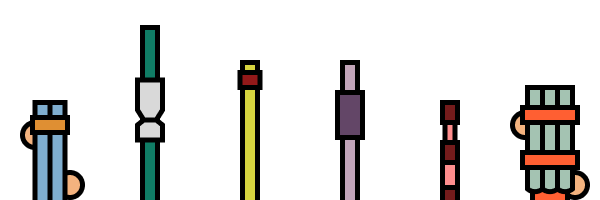
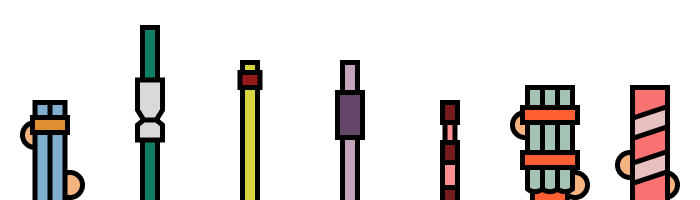
added a barrel and made menu decent for now...

diff --git a/src/gunparts.js b/src/gunparts.js
@@ -1,22 +1,23 @@
 import { RubberBullet, ShotgunShell, Bullet, SmallBullet } from "./bullet";
+import { Gun } from "./gun";
 
 class Barrel {
-  constructor(MOBILITY, BULLETS_AT_ONCE, MULTIPLE_BULLET_SPREAD, imgCellX, SHOW_MAG = true) {
+  constructor(MOBILITY, BULLETS_AT_ONCE, MULTIPLE_BULLET_SPREAD, imgCellX, showMag = true) {
     this.MOBILITY = MOBILITY;
     this.BULLETS_AT_ONCE = BULLETS_AT_ONCE; // Int
     this.MULTIPLE_BULLET_SPREAD = MULTIPLE_BULLET_SPREAD; // Radians
 
     this.imgCellX = imgCellX;
-    this.SHOW_MAG = SHOW_MAG;
+    this.showMag = showMag;
   }
 }
 
 class Magazine {
-  constructor(IS_AUTOMATIC, RELOAD_TIME, CAPACITY, BULLET_CLASS, imgCellX) {
+  constructor(IS_AUTOMATIC, RELOAD_TIME, CAPACITY, BulletClass, imgCellX) {
     this.IS_AUTOMATIC = IS_AUTOMATIC; // Bool
     this.RELOAD_TIME = RELOAD_TIME; // Seconds
     this.CAPACITY = CAPACITY; // Int
-    this.BULLET_CLASS = BULLET_CLASS;
+    this.BulletClass = BulletClass;
 
     this.imgCellX = imgCellX;
   }
@@ -36,23 +37,25 @@ class Body {
   }
 }
 
-// export const barrel = new Barrel(0.5, 2, 0.1, 0, false); // Double barrel
-// export const barrel = new Barrel(0.1, 1, 0, 1, true); // Long range barrel
-// export const barrel = new Barrel(0.5, 1, 0, 2, true); // Normal barrel
-// export const barrel = new Barrel(0.7, 1, 0, 3, true); // Normal barrel but high mobility
-export const barrel = new Barrel(1, 1, 0, 4, true); // Pistol barrel
-// export const barrel = new Barrel(0.2, 5, 0.05, 5, false); // Machinegun barrel
+export const barrels = [
+  new Barrel(0.5, 2, 0.1, 0, false), // Double barrel
+  new Barrel(0.1, 1, 0, 1, true), // Long range barrel
+  new Barrel(0.5, 1, 0, 2, true), // Normal barrel
+  new Barrel(0.7, 1, 0, 3, true), // Normal barrel but high mobility
+  new Barrel(1, 1, 0, 4, true), // Pistol barrel
+  new Barrel(0.2, 5, 0.05, 5, false), // Machinegun barrel
 
-// export const magazine = new Magazine(false, 0.5, 16, ShotgunShell, 0);
-// export const magazine = new Magazine(true, 1, 20, SmallBullet, 1);
-// export const magazine = new Magazine(true, 2, 40, SmallBullet, 2);
-export const magazine = new Magazine(false, 0.9, 6, Bullet, 3);
+  new Barrel(0.2, 1, 0, 6, false, 0), // Rubbergun barrel
+];
 
-export const grip = new Grip(0.2, 0.8);
-// export const grip = new Grip(0.4, 0.6);
-// export const grip = new Grip(0.6, 0.4);
-// export const grip = new Grip(0.8, 0.2);
+export const magazines = [
+  new Magazine(false, 0.5, 16, ShotgunShell, 0),
+  new Magazine(true, 1, 20, SmallBullet, 1),
+  new Magazine(true, 2, 40, SmallBullet, 2),
+  new Magazine(false, 0.9, 6, Bullet, 3),
 
-// export const body = new Body(0.2, 0.05);
-// export const body = new Body(0.4, 0.1);
-export const body = new Body(0.9, 0.2);
+  new Magazine(true, 0.9, 18, RubberBullet, 3),
+];
+
+export const grips = [new Grip(0.2, 0.8), new Grip(0.4, 0.6), new Grip(0.6, 0.4), new Grip(0.8, 0.2)];
+export const bodys = [new Body(0.2, 0.05), new Body(0.4, 0.1), new Body(0.9, 0.2)];

diff --git a/src/gun.js b/src/gun.js
@@ -1,4 +1,3 @@
-import { barrel, magazine, grip, body } from "./gunparts";
 import { pushBullets } from "./bullet";
 
 let barrelSheet = new Image();
@@ -7,30 +6,19 @@ barrelSheet.src = "/temp/barrel.png";
 let magSheet = new Image();
 magSheet.src = "/temp/magazine.png";
 
+let bodySheet = new Image();
+bodySheet.src = "/temp/body.png";
+
 const tempReload = new Howl({ src: ["/temp/reload.mp3"], loop: false, volume: 1 });
 
-class Gun {
-  constructor() {
-    this.bulletsLeft = 0;
+export class Gun {
+  constructor(barrel, magazine, grip, body) {
+    this.calculateStats(barrel, magazine, grip, body);
+
     this.isReloading = false;
     this.lastShot = 0;
 
-    //DATA
-    this.MOBILITY;
-    this.recoil;
-
-    //If FIRE_RATE = 0, gun will not continue shooting when held down, useful for pistols
-    this.FIRE_RATE;
-    this.ACCURACY;
-
-    this.RELOAD_TIME;
-    this.MAG_CAPACITY;
-    this.BULLETS_AT_ONCE;
-    this.MULTIPLE_BULLET_SPREAD;
-
     this.SHOOT_NOISE = new Howl({ src: ["/temp/submachine-gun-79846.mp3"], loop: false, volume: 1 });
-
-    this.calculateStats(barrel, magazine, grip, body);
   }
 
   calculateStats(barrel, magazine, grip, body) {
@@ -42,7 +30,6 @@ class Gun {
     this.body = body;
 
     this.MOBILITY = (grip.MOBILITY + body.MOBILITY + barrel.MOBILITY) / 3;
-    this.recoil = null;
 
     this.FIRE_RATE = magazine.IS_AUTOMATIC ? body.FIRE_RATE : 0;
     this.ACCURACY = grip.ACCURACY;
@@ -103,7 +90,7 @@ class Gun {
         SPRITE_SIZE,
         SPRITE_SIZE * 2,
         -SPRITE_SIZE / 2,
-        -SPRITE_SIZE * 2.4,
+        -SPRITE_SIZE * 2.45,
         SPRITE_SIZE,
         SPRITE_SIZE * 2
       );
@@ -116,12 +103,15 @@ class Gun {
       SPRITE_SIZE,
       SPRITE_SIZE * 2,
       -SPRITE_SIZE / 2,
-      -SPRITE_SIZE * 2.4,
+      -SPRITE_SIZE * 2.45,
       SPRITE_SIZE,
       SPRITE_SIZE * 2
     );
   }
 }
 
-//Right now stats are hard coded, later they will be calculated based on the parts used to make them
-export const gun = new Gun();
+export let gun;
+
+export function setGun(barrel, magazine, grip, body) {
+  gun = new Gun(barrel, magazine, grip, body);
+}

diff --git a/src/menu/changegun.js b/src/menu/changegun.js
@@ -1,0 +1,54 @@
+import { gun, setGun } from "../gun";
+import { Button } from "./button";
+import { barrels, magazines, grips, bodys } from "../gunparts";
+
+let gunPartsIndex = [0, 0, 0, 0];
+// 0 = barrel, 1 = magazine, 2 = grip, 3 = body
+
+export function makeGun() {
+  setGun(barrels[gunPartsIndex[0]], magazines[gunPartsIndex[1]], grips[gunPartsIndex[2]], bodys[gunPartsIndex[3]]);
+}
+
+function changeBarrel() {
+  gunPartsIndex[0]++;
+  if (gunPartsIndex[0] >= barrels.length) gunPartsIndex[0] = 0;
+  makeGun();
+}
+
+function changeMag() {
+  gunPartsIndex[1]++;
+  if (gunPartsIndex[1] >= magazines.length) gunPartsIndex[1] = 0;
+  makeGun();
+}
+
+function changeGrip() {
+  gunPartsIndex[2]++;
+  if (gunPartsIndex[2] >= grips.length) gunPartsIndex[2] = 0;
+  makeGun();
+}
+
+function changeBody() {
+  gunPartsIndex[3]++;
+  if (gunPartsIndex[3] >= bodys.length) gunPartsIndex[3] = 0;
+  makeGun();
+}
+
+new Button(0, 100, changeBarrel);
+new Button(0, 200, changeMag);
+new Button(0, 300, changeGrip);
+new Button(0, 400, changeBody);
+
+export function showStats() {
+  const BAR_WIDTH = 300;
+  const BAR_HEIGHT = 40;
+
+  ctx.fillStyle = "red";
+
+  ctx.fillRect(canvas.width - BAR_WIDTH, 0, BAR_WIDTH * gun.MOBILITY, BAR_HEIGHT);
+  ctx.fillRect(canvas.width - BAR_WIDTH, BAR_HEIGHT, BAR_WIDTH * gun.ACCURACY, BAR_HEIGHT);
+
+  // ctx.fillRect(canvas.width - BAR_WIDTH, 0, BAR_WIDTH * , BAR_HEIGHT);
+  // ctx.fillRect(canvas.width - BAR_WIDTH, 0, BAR_WIDTH, BAR_HEIGHT);
+  // ctx.fillRect(canvas.width - BAR_WIDTH, 0, BAR_WIDTH, BAR_HEIGHT);
+  // ctx.fillRect(canvas.width - BAR_WIDTH, 0, BAR_WIDTH, BAR_HEIGHT);
+}

diff --git a/src/menu/button.js b/src/menu/button.js
@@ -2,32 +2,47 @@ export let buttons = [];
 
 export function updateButtons() {
   for (const button of buttons) {
-    bullet.update();
-    bullet.draw();
+    button.update();
+    button.draw();
   }
 }
 
-const DEFAULT_SIZE = {
-  x: 200,
-  y: 100,
-};
+addEventListener("mousedown", (e) => {
+  for (const button of buttons) {
+    if (button.isMouseOn()) button.press();
+  }
+});
 
-class Button {
-  constructor(position, trigger, size = DEFAULT_SIZE) {
-    this.position = position;
+const DEFAULT_WIDTH = 300;
+const DEFAULT_HEIGHT = 100;
+
+export class Button {
+  constructor(X, Y, trigger, WIDTH = DEFAULT_WIDTH, HEIGHT = DEFAULT_HEIGHT) {
+    this.X = X;
+    this.Y = Y;
+    this.WIDTH = WIDTH;
+    this.HEIGHT = HEIGHT;
+
     this.trigger = trigger;
-    this.size = size;
 
     buttons.push(this);
   }
 
   update() {}
 
-  draw() {
-    ctx.fillRect(this.position.x, this.position.y, this.size.x, this.size.y);
+  isMouseOn() {
+    return mouse.x > this.X && mouse.x < this.X + this.WIDTH && mouse.y > this.Y && mouse.y < this.Y + this.HEIGHT;
   }
 
-  onPress() {
+  draw() {
+    ctx.fillStyle = "#769B46";
+
+    if (this.isMouseOn()) ctx.fillStyle = "red";
+
+    ctx.fillRect(this.X, this.Y, this.WIDTH, this.HEIGHT);
+  }
+
+  press() {
     this.trigger();
   }
 }

diff --git a/src/game/player.js b/src/game/player.js
@@ -23,13 +23,17 @@ class Player {
     //Gun stuff
     this.gun;
 
-    addEventListener("mousedown", (e) => {
+    this.onMouseDown = (e) => {
       this.gun.shoot(this.x, this.y, this.angle);
-    });
+    };
 
-    addEventListener("keydown", (e) => {
+    this.onKeyDown = (e) => {
       if (e.code == "KeyR") this.gun.reload();
-    });
+      if (e.code == "Escape") changeScene("menu");
+    };
+
+    addEventListener("mousedown", this.onMouseDown);
+    addEventListener("keydown", this.onKeyDown);
   }
 
   draw() {
@@ -84,6 +88,15 @@ class Player {
 
     this.draw();
   }
+
+  destroy() {
+    removeEventListener("mousedown", this.onMouseDown);
+    removeEventListener("keydown", this.onKeyDown);
+  }
 }
 
-export let userPlayer = new Player(canvas.width / 2, canvas.height / 2);
+export let userPlayer;
+
+export function loadPlayer() {
+  userPlayer = new Player(canvas.width / 2, canvas.height / 2);
+}

diff --git a/src/menu/index.js b/src/menu/index.js
@@ -1,8 +1,31 @@
+import { updateButtons, Button } from "./button";
+import { Gun, gun } from "../gun";
+import { showStats, makeGun } from "./changegun";
+
 export function update() {
   ctx.fillStyle = "#555252";
   ctx.fillRect(0, 0, canvas.width, canvas.height);
+
+  updateButtons();
+
+  ctx.save();
+  ctx.translate(canvas.width / 2, canvas.height / 2);
+
+  gun.draw();
+
+  ctx.restore();
+
+  showStats();
 }
 
 export function load() {
-  console.log("MENU");
+  makeGun();
+}
+
+export function unload() {}
+
+new Button(0, 800, joinGame);
+
+function joinGame() {
+  changeScene("game");
 }

diff --git a/src/index.js b/src/index.js
@@ -9,8 +9,9 @@ const scenes = {
 };
 
 window.changeScene = function (sceneName) {
+  scenes[currentScene]?.unload();
   currentScene = sceneName;
-  scenes[currentScene].load();
+  scenes[currentScene]?.load();
 };
 
 let currentScene;
@@ -29,7 +30,7 @@ function update(currentTime) {
   time.time = currentTime / 1000;
 
   ctx.clearRect(0, 0, canvas.width, canvas.height);
-  scenes[currentScene].update();
+  scenes[currentScene]?.update();
 
   requestAnimationFrame(update);
 }

diff --git a/src/game/index.js b/src/game/index.js
@@ -1,4 +1,4 @@
-import { userPlayer } from "./player";
+import { loadPlayer, userPlayer } from "./player";
 import { gun } from "../gun"; // Will change :)
 import { updateBullets } from "../bullet";
 
@@ -11,5 +11,10 @@ export function update() {
 }
 
 export function load() {
+  loadPlayer();
   userPlayer.giveGun(gun);
+}
+
+export function unload() {
+  userPlayer.destroy();
 }
